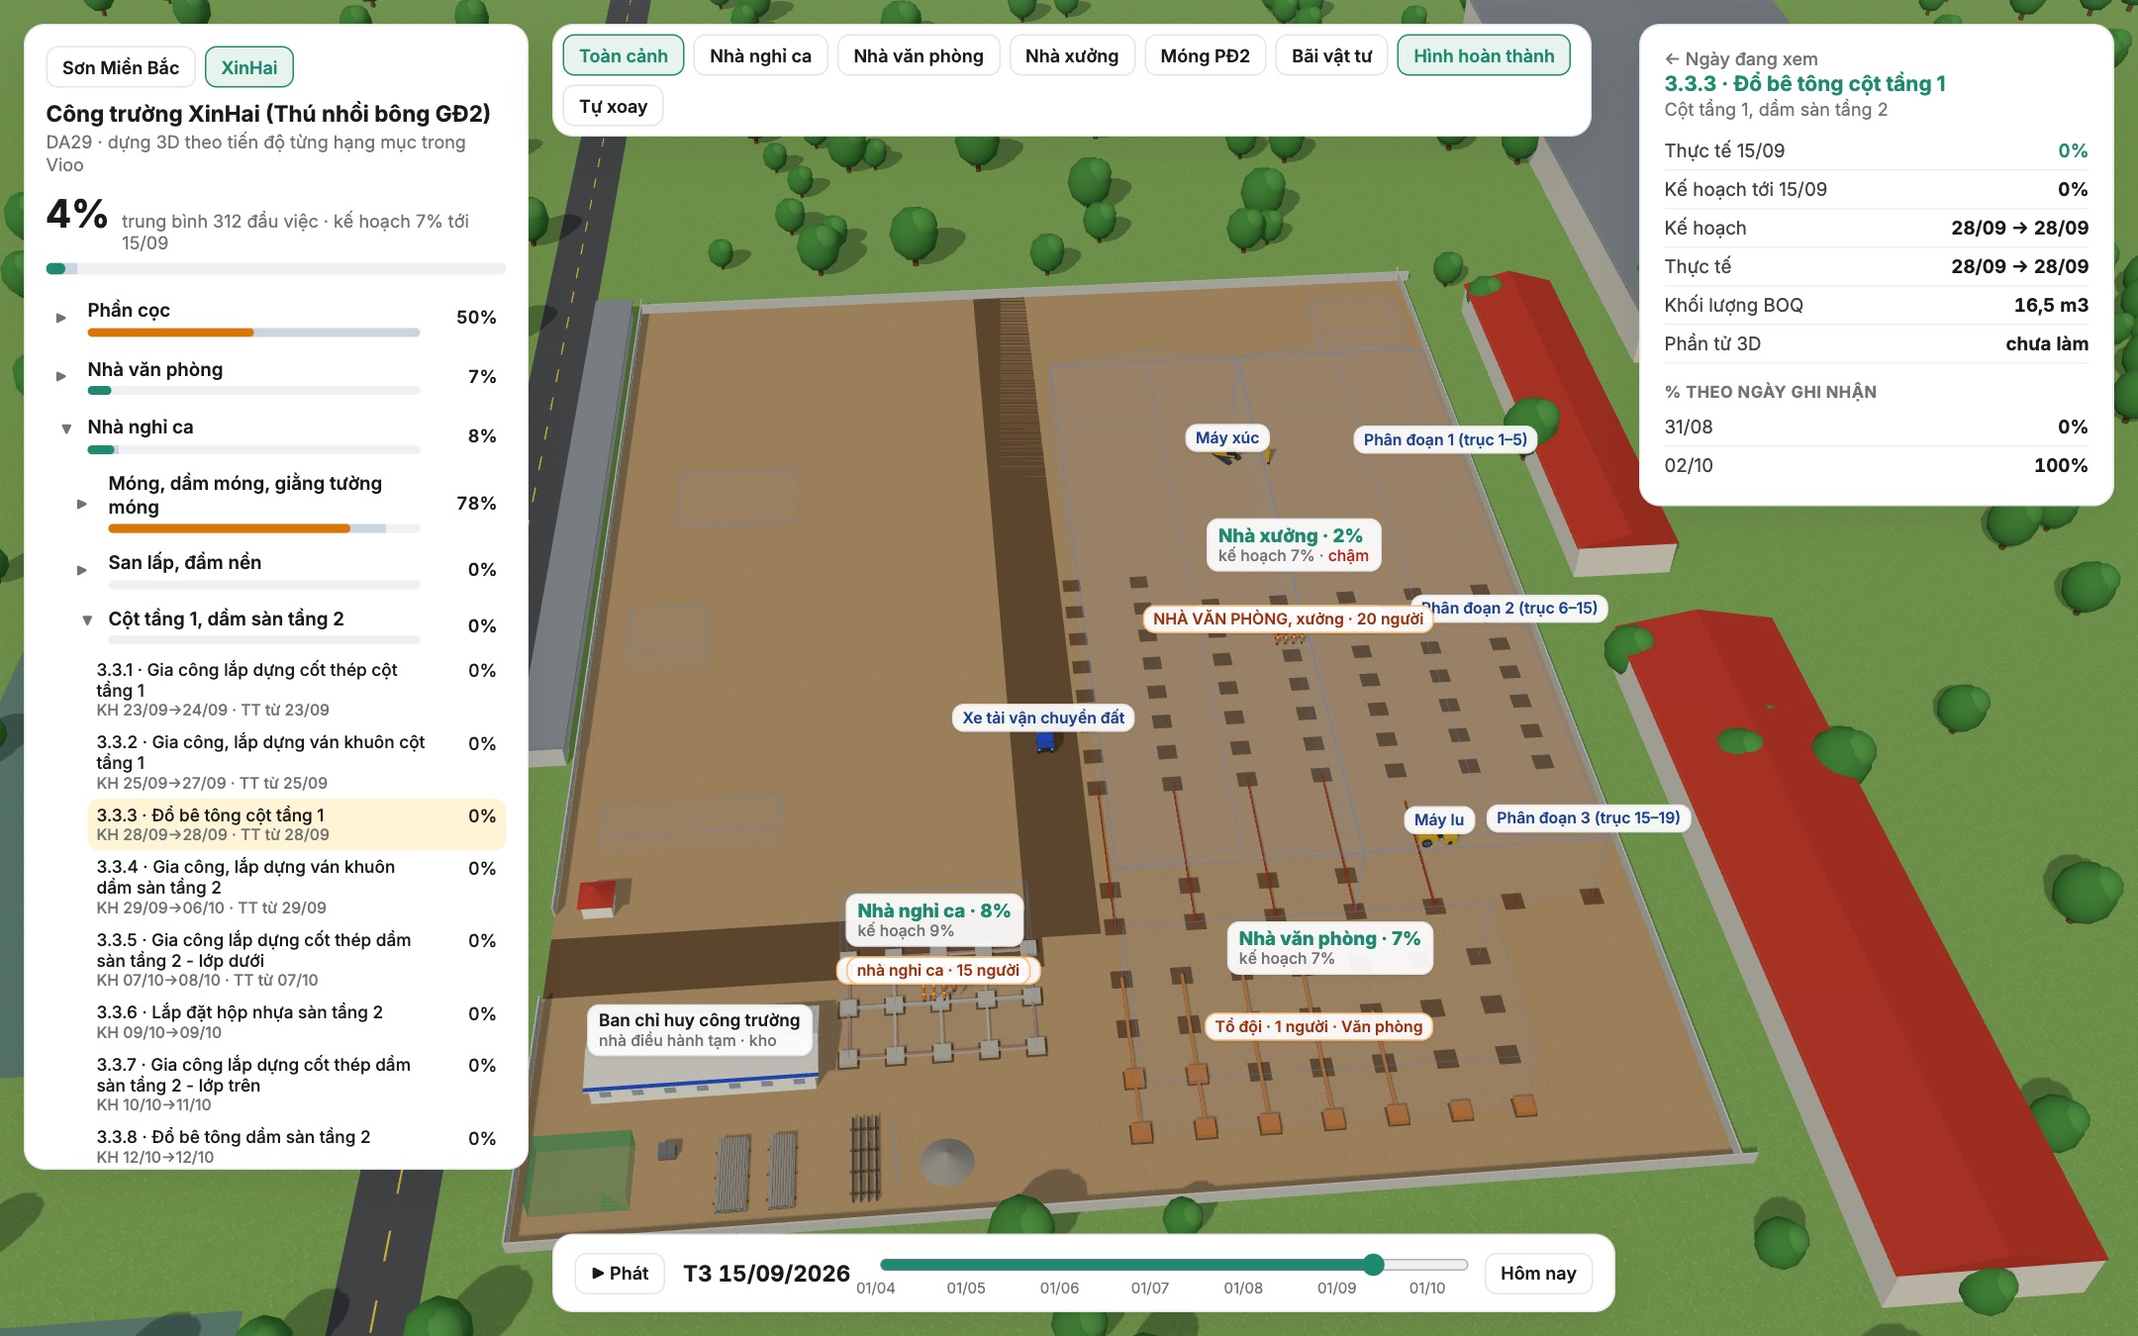
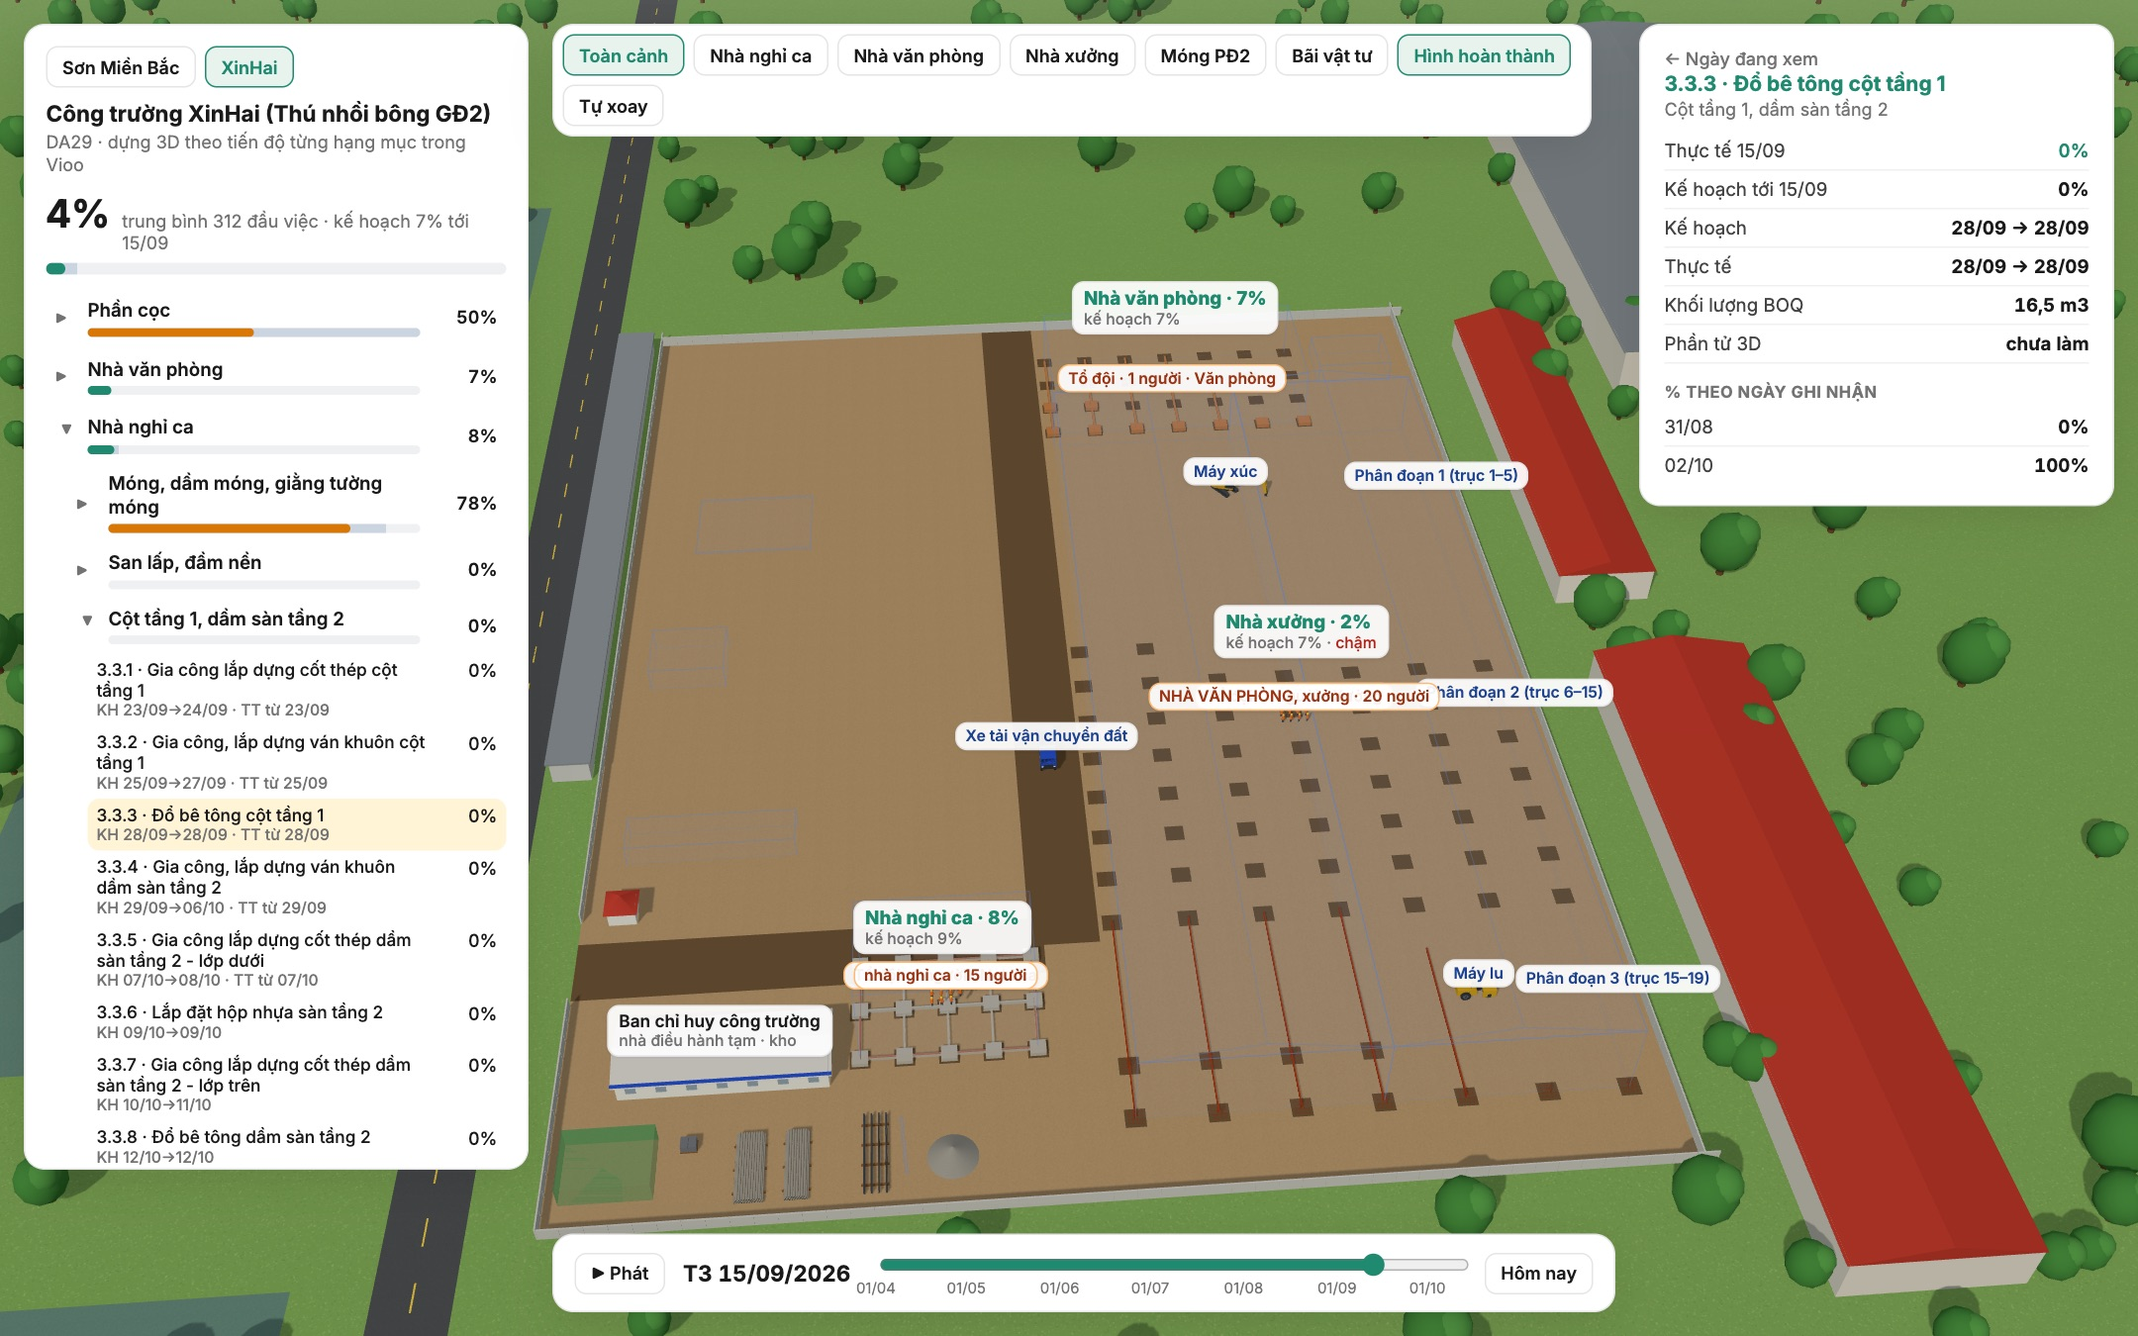
docs(center): XinHai — nhà văn phòng ở ô cuối, nhà xưởng kéo dài tới sát nhà văn phòng
Theo chủ SP xác nhận 14/10: ngôi nhà cạnh BCH là nhà nghỉ ca; nhà văn phòng là ô cuối phía xa; nhà xưởng 66 × 150 m, 18 bước cột, PĐ3 trước → PĐ1 sau.

diff --git a/docs/command-center/mockups/site-3d.html b/docs/command-center/mockups/site-3d.html
@@ -248,10 +248,10 @@ const BLD = SITE_KEY === 'SMB' ? {
   NX3: { name: 'Nhà xưởng 3', short: 'Xưởng 3', x0: -38, x1: 28, z0: -160, z1: -77, roots: ['13', '14', '15', '16'] },
   HT: { name: 'Hạ tầng', short: 'Hạ tầng', x0: SITE.x0, x1: SITE.x1, z0: SITE.z0, z1: SITE.z1, roots: ['17'] },
 } : {
-  COC: { name: 'Phần cọc', short: 'Cọc', x0: 10, x1: 76, z0: -110, z1: 7, roots: kidsOf('1'), noLabel: true },
-  NVP: { name: 'Nhà văn phòng', short: 'Văn phòng', x0: 10, x1: 58, z0: 16, z1: 40, roots: kidsOf('2') },
+  COC: { name: 'Phần cọc', short: 'Cọc', x0: 10, x1: 76, z0: -112, z1: 38, roots: kidsOf('1'), noLabel: true },
+  NVP: { name: 'Nhà văn phòng', short: 'Văn phòng', x0: 10, x1: 58, z0: -140, z1: -116, roots: kidsOf('2') },
   NNC: { name: 'Nhà nghỉ ca', short: 'Nghỉ ca', x0: -26, x1: -2, z0: 10, z1: 26, roots: kidsOf('3') },
-  NX: { name: 'Nhà xưởng', short: 'Xưởng', x0: 10, x1: 76, z0: -110, z1: 7, roots: kidsOf('4') },
+  NX: { name: 'Nhà xưởng', short: 'Xưởng', x0: 10, x1: 76, z0: -112, z1: 38, roots: kidsOf('4') },
   PHU: { name: 'WC + khí nén, trạm biến áp, hồ PCCC, nhà xe', short: 'Hạng mục phụ', x0: -60, x1: 78, z0: -140, z1: -10, roots: ['5', '6', '7'], noLabel: true },
   HT: { name: 'Hạ tầng, cây xanh, bàn giao', short: 'Hạ tầng', x0: SITE.x0, x1: SITE.x1, z0: SITE.z0, z1: SITE.z1, roots: ['8', '9'], noLabel: true },
 };
@@ -810,9 +810,9 @@ function frameBuilding(b, { key, nx, nz, fh, floors, found, ground, tum, ghostH 
 }
 // Nhà xưởng khung thép 2 tầng (sàn deck), chia phân đoạn theo trục.
 function steelFactoryDA(b, segs) {
-  const xs = [10, 21, 32, 43, 54, 65, 76], BAY = 6.5;
+  const xs = [10, 21, 32, 43, 54, 65, 76], BAY = 150 / 18;
   for (const sg of segs) {
-    const frameZ = []; for (let z = sg.z1; z >= sg.z0 - 0.01; z -= BAY) frameZ.push(z);
+    const frameZ = []; for (let z = sg.z1; z >= sg.z0 - 0.5; z -= BAY) frameZ.push(Math.round(z * 100) / 100);
     const pos = []; frameZ.forEach(z => xs.forEach(x => pos.push([x, z])));
     const r = { x0: b.x0, x1: b.x1, z0: sg.z0, z1: sg.z1 }, c = sg.c;
     foundation(pos, { pile: '1.2.1', dig: c.dig, reb: c.reb, form: c.form, pad: c.conc, tie: c.conc, tieReb: c.reb, tieForm: c.form, backfill: c.fill }, { xs, zs: frameZ });
@@ -870,12 +870,12 @@ if (SITE_KEY === 'DA29') {
       { col: { reb: '3.5.1', form: '3.5.2', conc: '3.5.3' }, slab: { form: '3.5.4', reb: '3.5.5', conc: '3.5.8' }, wall: '3.7.3' }],
     tum: { col: { reb: '3.6.1', form: '3.6.2', conc: '3.6.3' }, slab: { form: '3.6.4', reb: '3.6.5', conc: '3.6.8' }, wall: '3.7.4' } });
   steelFactoryDA(BLD.NX, [
-    { name: 'Phân đoạn 3 (trục 15–19)', z0: -19, z1: 7, c: { dig: '4.1.3.1', reb: '4.1.3.4', form: '4.1.3.5', conc: '4.1.3.6', fill: '4.1.3.7', plinth: '4.1.3.11', base: '4.2.9', floorReb: '4.8.5', floor: '4.8.6', deckReb: '4.7.5', deck: '4.7.6', wall: '4.4.3', roof: '4.5.3', clad: '4.6.3' } },
-    { name: 'Phân đoạn 2 (trục 6–15)', z0: -84, z1: -19, c: { dig: '4.1.2.1', reb: '4.1.2.4', form: '4.1.2.5', conc: '4.1.2.6', fill: '4.2.5', plinth: '4.1.2.9', base: '4.2.6', floorReb: '4.8.3', floor: '4.8.4', deckReb: '4.7.3', deck: '4.7.4', wall: '4.4.2', roof: '4.5.2', clad: '4.6.2' } },
-    { name: 'Phân đoạn 1 (trục 1–5)', z0: -110, z1: -84, c: { dig: '4.1.1.1', reb: '4.1.1.4', form: '4.1.1.5', conc: '4.1.1.6', fill: '4.1.1.7', plinth: '4.1.1.9', base: '4.2.3', floorReb: '4.8.1', floor: '4.8.2', deckReb: '4.7.1', deck: '4.7.2', wall: '4.4.1', roof: '4.5.1', clad: '4.6.1' } },
+    { name: 'Phân đoạn 3 (trục 15–19)', z0: 38 - 4 * 150 / 18, z1: 38, c: { dig: '4.1.3.1', reb: '4.1.3.4', form: '4.1.3.5', conc: '4.1.3.6', fill: '4.1.3.7', plinth: '4.1.3.11', base: '4.2.9', floorReb: '4.8.5', floor: '4.8.6', deckReb: '4.7.5', deck: '4.7.6', wall: '4.4.3', roof: '4.5.3', clad: '4.6.3' } },
+    { name: 'Phân đoạn 2 (trục 6–15)', z0: 38 - 14 * 150 / 18, z1: 38 - 4 * 150 / 18, c: { dig: '4.1.2.1', reb: '4.1.2.4', form: '4.1.2.5', conc: '4.1.2.6', fill: '4.2.5', plinth: '4.1.2.9', base: '4.2.6', floorReb: '4.8.3', floor: '4.8.4', deckReb: '4.7.3', deck: '4.7.4', wall: '4.4.2', roof: '4.5.2', clad: '4.6.2' } },
+    { name: 'Phân đoạn 1 (trục 1–5)', z0: -112, z1: 38 - 14 * 150 / 18, c: { dig: '4.1.1.1', reb: '4.1.1.4', form: '4.1.1.5', conc: '4.1.1.6', fill: '4.1.1.7', plinth: '4.1.1.9', base: '4.2.3', floorReb: '4.8.1', floor: '4.8.2', deckReb: '4.7.1', deck: '4.7.2', wall: '4.4.1', roof: '4.5.1', clad: '4.6.1' } },
   ]);
   // Hạng mục chưa làm (0%): chỉ hiện bóng mờ.
-  ghostBox(16, 4, 12, 70, 2, -134); ghostBox(12, 4, 10, -54, 2, -55); ghostBox(20, 0.4, 15, -45, 0.2, -92); ghostBox(25, 3.5, 6, -48, 1.75, -15); ghostBox(0.3, 12, 0.3, -20, 6, 44);
+  ghostBox(14, 4, 10, 70, 2, -134); ghostBox(12, 4, 10, -54, 2, -55); ghostBox(20, 0.4, 15, -45, 0.2, -92); ghostBox(25, 3.5, 6, -48, 1.75, -15); ghostBox(0.3, 12, 0.3, -20, 6, 44);
   // Rào, cổng, nhà bảo vệ mái đỏ, đường tạm, BCH (nhà dài mái tôn xanh trắng), khu gia công lưới xanh, bãi vật tư.
   const fence = []; for (let z = SITE.z1; z > SITE.z0; z -= 3) { if (!(z < 16 && z > 0)) fence.push([SITE.x0, z, SITE.x0, z - 3]); fence.push([SITE.x1, z, SITE.x1, z - 3]); }
   for (let x = SITE.x0; x < SITE.x1; x += 3) { fence.push([x, SITE.z0, x + 3, SITE.z0]); fence.push([x, SITE.z1, x + 3, SITE.z1]); }
@@ -903,8 +903,8 @@ function worker(x, y, z, helmet = M.helmetY) { const g = new THREE.Group(); g.po
 const TEAM_PLACES = SITE_KEY === 'DA29' ? [
   { re: /nghỉ/i, at: () => [-14, 3.75, 18], name: 'Nhà nghỉ ca' },
   { re: /bch/i, at: () => [-44, 0, 34], name: 'BCH' },
-  { re: /đào|lấp đất/i, at: () => [43, 0, -97], name: 'Phân đoạn 1' },
-  { re: /văn phòng|xưởng|cốt thép|ván khuôn|móng/i, at: () => [43, 0, -50], name: 'Nhà xưởng PĐ2' },
+  { re: /đào|lấp đất/i, at: () => [43, 0, -96], name: 'Phân đoạn 1' },
+  { re: /văn phòng|xưởng|cốt thép|ván khuôn|móng/i, at: () => [43, 0, -37], name: 'Nhà xưởng PĐ2' },
 ] : [
   { re: /alc|xây tường bao|xây alc/i, at: () => [-10.6, 0, -20], name: 'Xây ALC' },
   { re: /kc|kết cấu|lắp dựng/i, at: () => [15, 11.6, -10], name: 'Lắp dựng kết cấu', up: true },
@@ -915,9 +915,9 @@ const TEAM_PLACES = SITE_KEY === 'DA29' ? [
   { re: /văn phòng|nvp|cốt thép|vk|ván|bt|bê tông/i, at: () => [-28, 4 * FH + 0.1, 16], name: 'BT, cốt thép, ván khuôn' },
 ];
 const MACH_PLACES = SITE_KEY === 'DA29'
-  ? { crane: [-14, 0, 36, Math.PI / 2], excavator: [40, 0, -97, 0.6], roller: [43, 0, -5, Math.PI / 2], dozer: [30, 0, 30, 1.2], rammer: [30, 0, -60, 0], truck: [3, 0, -30, 0], pilepress: [30, 0, -45, 0], bender: [-58, 0, 43, 0] }
+  ? { crane: [-14, 0, 36, Math.PI / 2], excavator: [40, 0, -96, 0.6], roller: [43, 0, 21, Math.PI / 2], dozer: [30, 0, 30, 1.2], rammer: [30, 0, -45, 0], truck: [3, 0, -30, 0], pilepress: [30, 0, -20, 0], bender: [-58, 0, 43, 0] }
   : { crane: [34.5, 0, -12, -Math.PI / 2], excavator: [45, 0, -70, 0.4], roller: [40.5, 0, -110, 0], dozer: [-25, 0, -95, 1.2], rammer: [44.2, 0, -48, 0], truck: [20, 0, 46, Math.PI / 2] };
-const MACH_MOVE = SITE_KEY === 'DA29' ? { roller: ['x', 43, 22, 0.25], dozer: ['x', 30, 8, 0.2] } : { roller: ['z', -110, 22, 0.25], dozer: ['x', -25, 9, 0.2] };
+const MACH_MOVE = SITE_KEY === 'DA29' ? { roller: ['x', 43, 24, 0.25], dozer: ['x', 30, 8, 0.2] } : { roller: ['z', -110, 22, 0.25], dozer: ['x', -25, 9, 0.2] };
 const machines = {}; const machLabels = {};
 const BUILDERS = { crane: () => mobileCrane(12), excavator, roller, dozer, rammer, truck: () => dumpTruck(M.blue), pilepress: pilePress, bender: rebarBench };
 for (const [k2, place2] of Object.entries(MACH_PLACES)) {
@@ -934,8 +934,8 @@ function machinesNear(d) { const set = new Map(); for (const l of DATA.logs) if 
 function pourOn(d) { // Đổ bê tông có % tăng trong ngày d → xe bơm + 2 xe bồn tới nhà đó.
   let best = null; for (const t of Object.values(TASK)) { if (!/^Đổ bê tông/.test(t.name) || t.kids.length) continue; const a = pAt(t.wbs, d - 1), b = pAt(t.wbs, d); if (b - a > 0.5 && (!best || b - a > best.gain)) best = { t, gain: b - a }; } return best; }
 const bldOf = wbs => Object.entries(BLD).find(([, b]) => b.roots.some(r => wbs === r || wbs.startsWith(r + '.')))?.[0];
-const POUR_AT = SITE_KEY === 'DA29' ? { NVP: [62, 30, 0], NNC: [-14, 34, Math.PI / 2], NX: [82 - 4, -50, 0], COC: [3, -50, 0], PHU: [0, 0, 0], HT: [0, 0, 0] } : { NVP: [-28, 31, Math.PI / 2], NX1: [36, -17, 0], NX2: [-46, -27, 0], NX3: [-46, -118, 0], HT: [30, 40, 0] };
-const BCENTER = SITE_KEY === 'DA29' ? { NVP: [34, 0, 28], NNC: [-14, 3.75, 18], NX: [43, 0, -50], COC: [43, 0, -50], PHU: [-50, 0, -55], HT: [3, 0, -50] } : { NVP: [-28, 0, 27.5], NX1: [15, 0, 17.5], NX2: [-25, 0, -61.5], NX3: [-5, 0, -75.5], HT: [44, 0, -60] };
+const POUR_AT = SITE_KEY === 'DA29' ? { NVP: [64, -128, 0], NNC: [-14, 34, Math.PI / 2], NX: [78, -37, 0], COC: [3, -37, 0], PHU: [0, 0, 0], HT: [0, 0, 0] } : { NVP: [-28, 31, Math.PI / 2], NX1: [36, -17, 0], NX2: [-46, -27, 0], NX3: [-46, -118, 0], HT: [30, 40, 0] };
+const BCENTER = SITE_KEY === 'DA29' ? { NVP: [34, 0, -128], NNC: [-14, 3.75, 18], NX: [43, 0, -37], COC: [43, 0, -37], PHU: [-50, 0, -55], HT: [3, 0, -50] } : { NVP: [-28, 0, 27.5], NX1: [15, 0, 17.5], NX2: [-25, 0, -61.5], NX3: [-5, 0, -75.5], HT: [44, 0, -60] };
 function activeBuildings(d) { const g = {}; for (const t of Object.values(TASK)) { if (t.kids.length) continue; const gain = pAt(t.wbs, d) - pAt(t.wbs, d - 7); if (gain > 0.5) { const b = bldOf(t.wbs); if (b) g[b] = (g[b] || 0) + gain; } } return Object.entries(g).sort((a, b) => b[1] - a[1]).map(([b]) => b); }
 function cluster(x, y, z, count, text) { for (let i = 0; i < Math.min(count, 16); i += 1) worker(x + (i % 4) * 1.3 - 2, y, z + Math.floor(i / 4) * 1.3 - 1.5, i === 0 ? M.helmetW : M.helmetY);
   const l = label(text, 'team'); l.position.set(x, y + 3.2, z); scene.add(l); teamLabels.push(l); }
@@ -1005,7 +1005,7 @@ function showDay() {
     <div class="sec">Tiến triển 7 ngày qua</div>${recent.length ? recent.map(({ t, gain }) => `<button type="button" class="task" data-task="${t.wbs}"><span>${esc(t.wbs)} · ${esc(t.name)}</span><span class="pct ok">+${Math.round(gain)}%</span></button>`).join('') : '<p class="sub">Không có đầu việc tăng %.</p>'}`;
 }
 info.addEventListener('click', e => { const tk = e.target.closest('[data-task]'); if (tk) selectTask(tk.dataset.task); const bk = e.target.closest('[data-back]'); if (bk) { selTask = null; selBld = null; clearHL(); showDay(); } });
-const CENTER = SITE_KEY === 'DA29' ? { NVP: [34, 4, 28, 70], NNC: [-14, 5, 18, 45], NX: [43, 4, -50, 150], COC: [43, 4, -50, 150], PHU: [0, 0, -60, 200], HT: [5, 0, -50, 230] } : { NVP: [-28, 6, 16, 55], NX1: [15, 6, -17, 80], NX2: [-25, 6, -27, 80], NX3: [-5, 6, -118, 120], HT: [0, 0, -50, 230] };
+const CENTER = SITE_KEY === 'DA29' ? { NVP: [34, 4, -128, 70], NNC: [-14, 5, 18, 45], NX: [43, 4, -37, 180], COC: [43, 4, -37, 180], PHU: [0, 0, -60, 200], HT: [5, 0, -50, 230] } : { NVP: [-28, 6, 16, 55], NX1: [15, 6, -17, 80], NX2: [-25, 6, -27, 80], NX3: [-5, 6, -118, 120], HT: [0, 0, -50, 230] };
 function selectBuilding(key, fly = true) {
   selBld = key; const b = BLD[key], ts = b.roots.map(r => TASK[r]);
   info.innerHTML = `<button type="button" data-back style="border:0;background:none;padding:0;height:auto;color:#737373;font-weight:500">← Ngày đang xem</button><h2>${b.name}</h2><p class="sub">${dd(DAY)} · thực tế so với kế hoạch</p>
@@ -1031,7 +1031,7 @@ function selectTask(wbs) {
 }
 
 /* ───────── Camera, chọn trong cảnh, thời gian ───────── */
-const VIEWS = SITE_KEY === 'DA29' ? { overview: [[-10, 205, 175], [8, 0, -45]], NNC: [[6, 17, 50], [-14, 3, 18]], NVP: [[48, 26, 90], [34, 4, 28]], NX: [[125, 70, 20], [43, 3, -50]], NX_PD2: [[95, 30, -10], [43, 1, -50]], yard: [[-26, 22, 82], [-34, 1, 40]] } : { overview: [[-150, 120, 140], [-5, 0, -55]], NVP: [[-62, 22, 62], [-28, 6, 16]], NX1: [[62, 30, 40], [15, 5, -17]], NX2: [[-82, 30, 20], [-25, 5, -27]], NX3: [[-110, 55, -40], [-5, 5, -118]], yard: [[40, 18, 58], [18, 1, 28]] };
+const VIEWS = SITE_KEY === 'DA29' ? { overview: [[-10, 215, 185], [8, 0, -50]], NNC: [[6, 17, 50], [-14, 3, 18]], NVP: [[62, 30, -82], [34, 3, -128]], NX: [[135, 80, 40], [43, 3, -37]], NX_PD2: [[95, 30, 5], [43, 1, -37]], yard: [[-26, 22, 82], [-34, 1, 40]] } : { overview: [[-150, 120, 140], [-5, 0, -55]], NVP: [[-62, 22, 62], [-28, 6, 16]], NX1: [[62, 30, 40], [15, 5, -17]], NX2: [[-82, 30, 20], [-25, 5, -27]], NX3: [[-110, 55, -40], [-5, 5, -118]], yard: [[40, 18, 58], [18, 1, 28]] };
 let camFrom = null, camTo = null, camT = 1;
 function flyTo(target, dist) { const dir = camera.position.clone().sub(controls.target).normalize(); camFrom = { p: camera.position.clone(), t: controls.target.clone() }; camTo = { p: target.clone().add(dir.multiplyScalar(dist)), t: target.clone() }; camT = 0; }
 function goView(v) { const [p, t] = VIEWS[v]; camFrom = { p: camera.position.clone(), t: controls.target.clone() }; camTo = { p: v3(...p), t: v3(...t) }; camT = 0; document.querySelectorAll('[data-view]').forEach(b => b.setAttribute('aria-pressed', String(b.dataset.view === v))); }

diff --git a/docs/command-center/08-dong-chay-cong-viec-2026-10-13.md b/docs/command-center/08-dong-chay-cong-viec-2026-10-13.md
@@ -376,13 +376,11 @@ trên đầu bảng trái; khuôn viên bấm công trường → "Mở công tr
 theo ngày (31/08 → 02/10), 90 ngày nhật ký, 13 dòng sổ Kho Xin Hai Vina (cọc ly tâm D300, thép D6–D22, Base B, mũi cọc, thang giáo).
 
 **Bố cục theo ảnh**: đường nhựa 2 làn phía tây, ao cá bên kia đường, cổng + nhà bảo vệ mái đỏ phía tây, BCH là nhà dài mái tôn xanh trắng, khu gia công lưới xanh,
-bãi vật tư cạnh BCH, đường tạm đất chạy giữa, nhà xưởng hàng xóm mái đỏ phía đông. Nhà xưởng 66 × 117 m (tôn mái 3 × 2.567 m², sàn deck 7.462 m²), khung thép 2 tầng
-sàn deck, chia 3 phân đoạn theo trục: **PĐ3 (trục 15–19) gần cổng, PĐ2 (6–15) giữa, PĐ1 (1–5) phía xa** — khớp ảnh: phía trước đã lấp và lu nền, giữa đang buộc thép
-móng (30%), xa mới đào (30%). Nhà văn phòng 2 tầng + tum (~48 × 24 m, sàn ~1.000 m²) đặt trước nhà xưởng; nhà nghỉ ca 3 tầng + tum (24 × 16 m).
-
-**Điểm cần chủ SP xác nhận**: ngôi nhà ảnh ghi "Nhà văn phòng" khớp số liệu **Nhà nghỉ ca** (móng, lấp nền, cột tầng 1 xong; đang ván khuôn sàn tầng 2 — ảnh đã thấy
-ván phủ phim đen trên sàn tầng 2 nhưng Vioo còn 0%), còn nhà văn phòng trong Vioo mới xong móng 92%. Em đặt ngôi nhà trong ảnh là nhà nghỉ ca; nhà văn phòng đặt tạm
-trước nhà xưởng.
+bãi vật tư cạnh BCH, đường tạm đất chạy giữa, nhà xưởng hàng xóm mái đỏ phía đông. Chủ SP xác nhận (14/10): ngôi nhà cạnh BCH là **nhà nghỉ ca**
+(3 tầng + tum, 24 × 16 m: móng, lấp nền, cột tầng 1 xong; ảnh đã thấy ván phủ phim đen trên sàn tầng 2 nhưng Vioo còn 0%); **nhà văn phòng là ô cuối cùng phía xa**
+(2 tầng + tum ~48 × 24 m; móng đã đổ — ảnh có xe bồn ở đó — và đã lấp đất); **nhà xưởng chạy từ phía trước tới sát nhà văn phòng**: 66 × 150 m (theo ảnh; BOQ tôn mái
+3 × 2.567 m², sàn deck 7.462 m² nên nhà thật có thể hẹp hơn), khung thép 2 tầng sàn deck, 18 bước cột, chia 3 phân đoạn theo trục: **PĐ3 (trục 15–19) phía trước,
+PĐ2 (6–15) giữa, PĐ1 (1–5) phía xa** — khớp ảnh: phía trước đã lấp và lu nền, giữa đang buộc thép móng (30%), xa mới đào (30%).
 
 **Bổ sung chung cho cả hai công trường**: móng có thêm giai đoạn cốt thép (lồng thép cam ở đế và giằng) và ván khuôn trước bê tông; đầu việc đã xong có ngày thực tế thì
 dựng theo ngày thực tế (vì % theo ngày thường nhập muộn — ví dụ đổ bê tông cột tầng 1 nhà nghỉ ca ngày 28/09 nhưng % 100 ghi ngày 02/10); số công nhân lấy số lớn hơn
